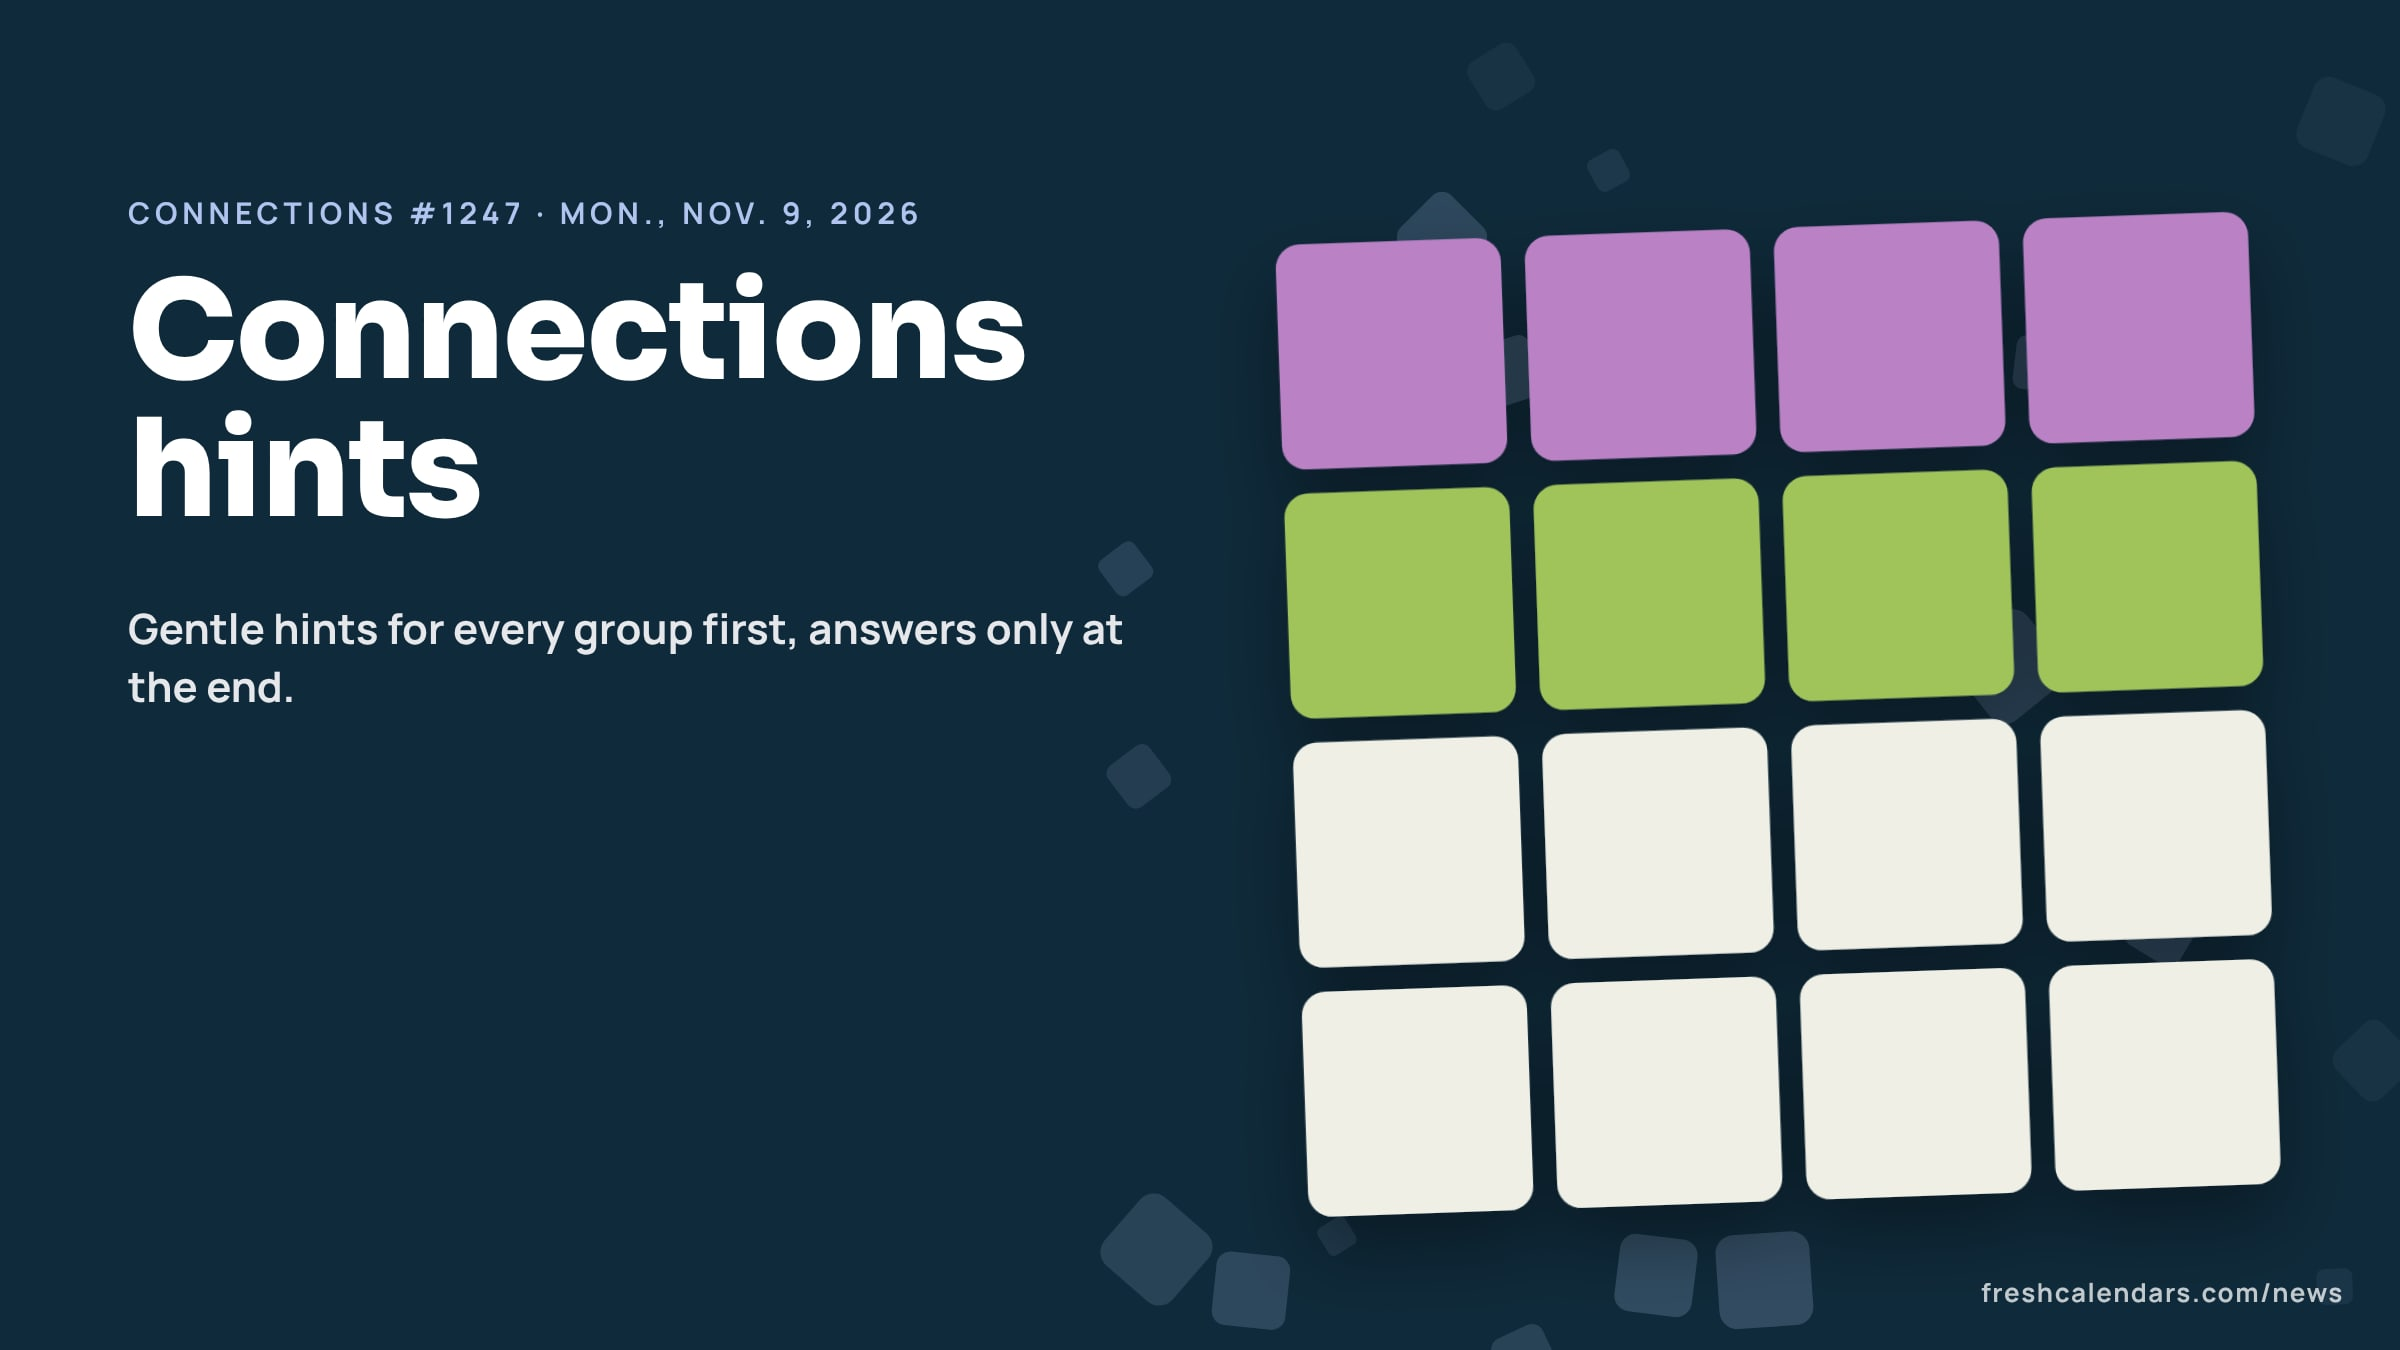
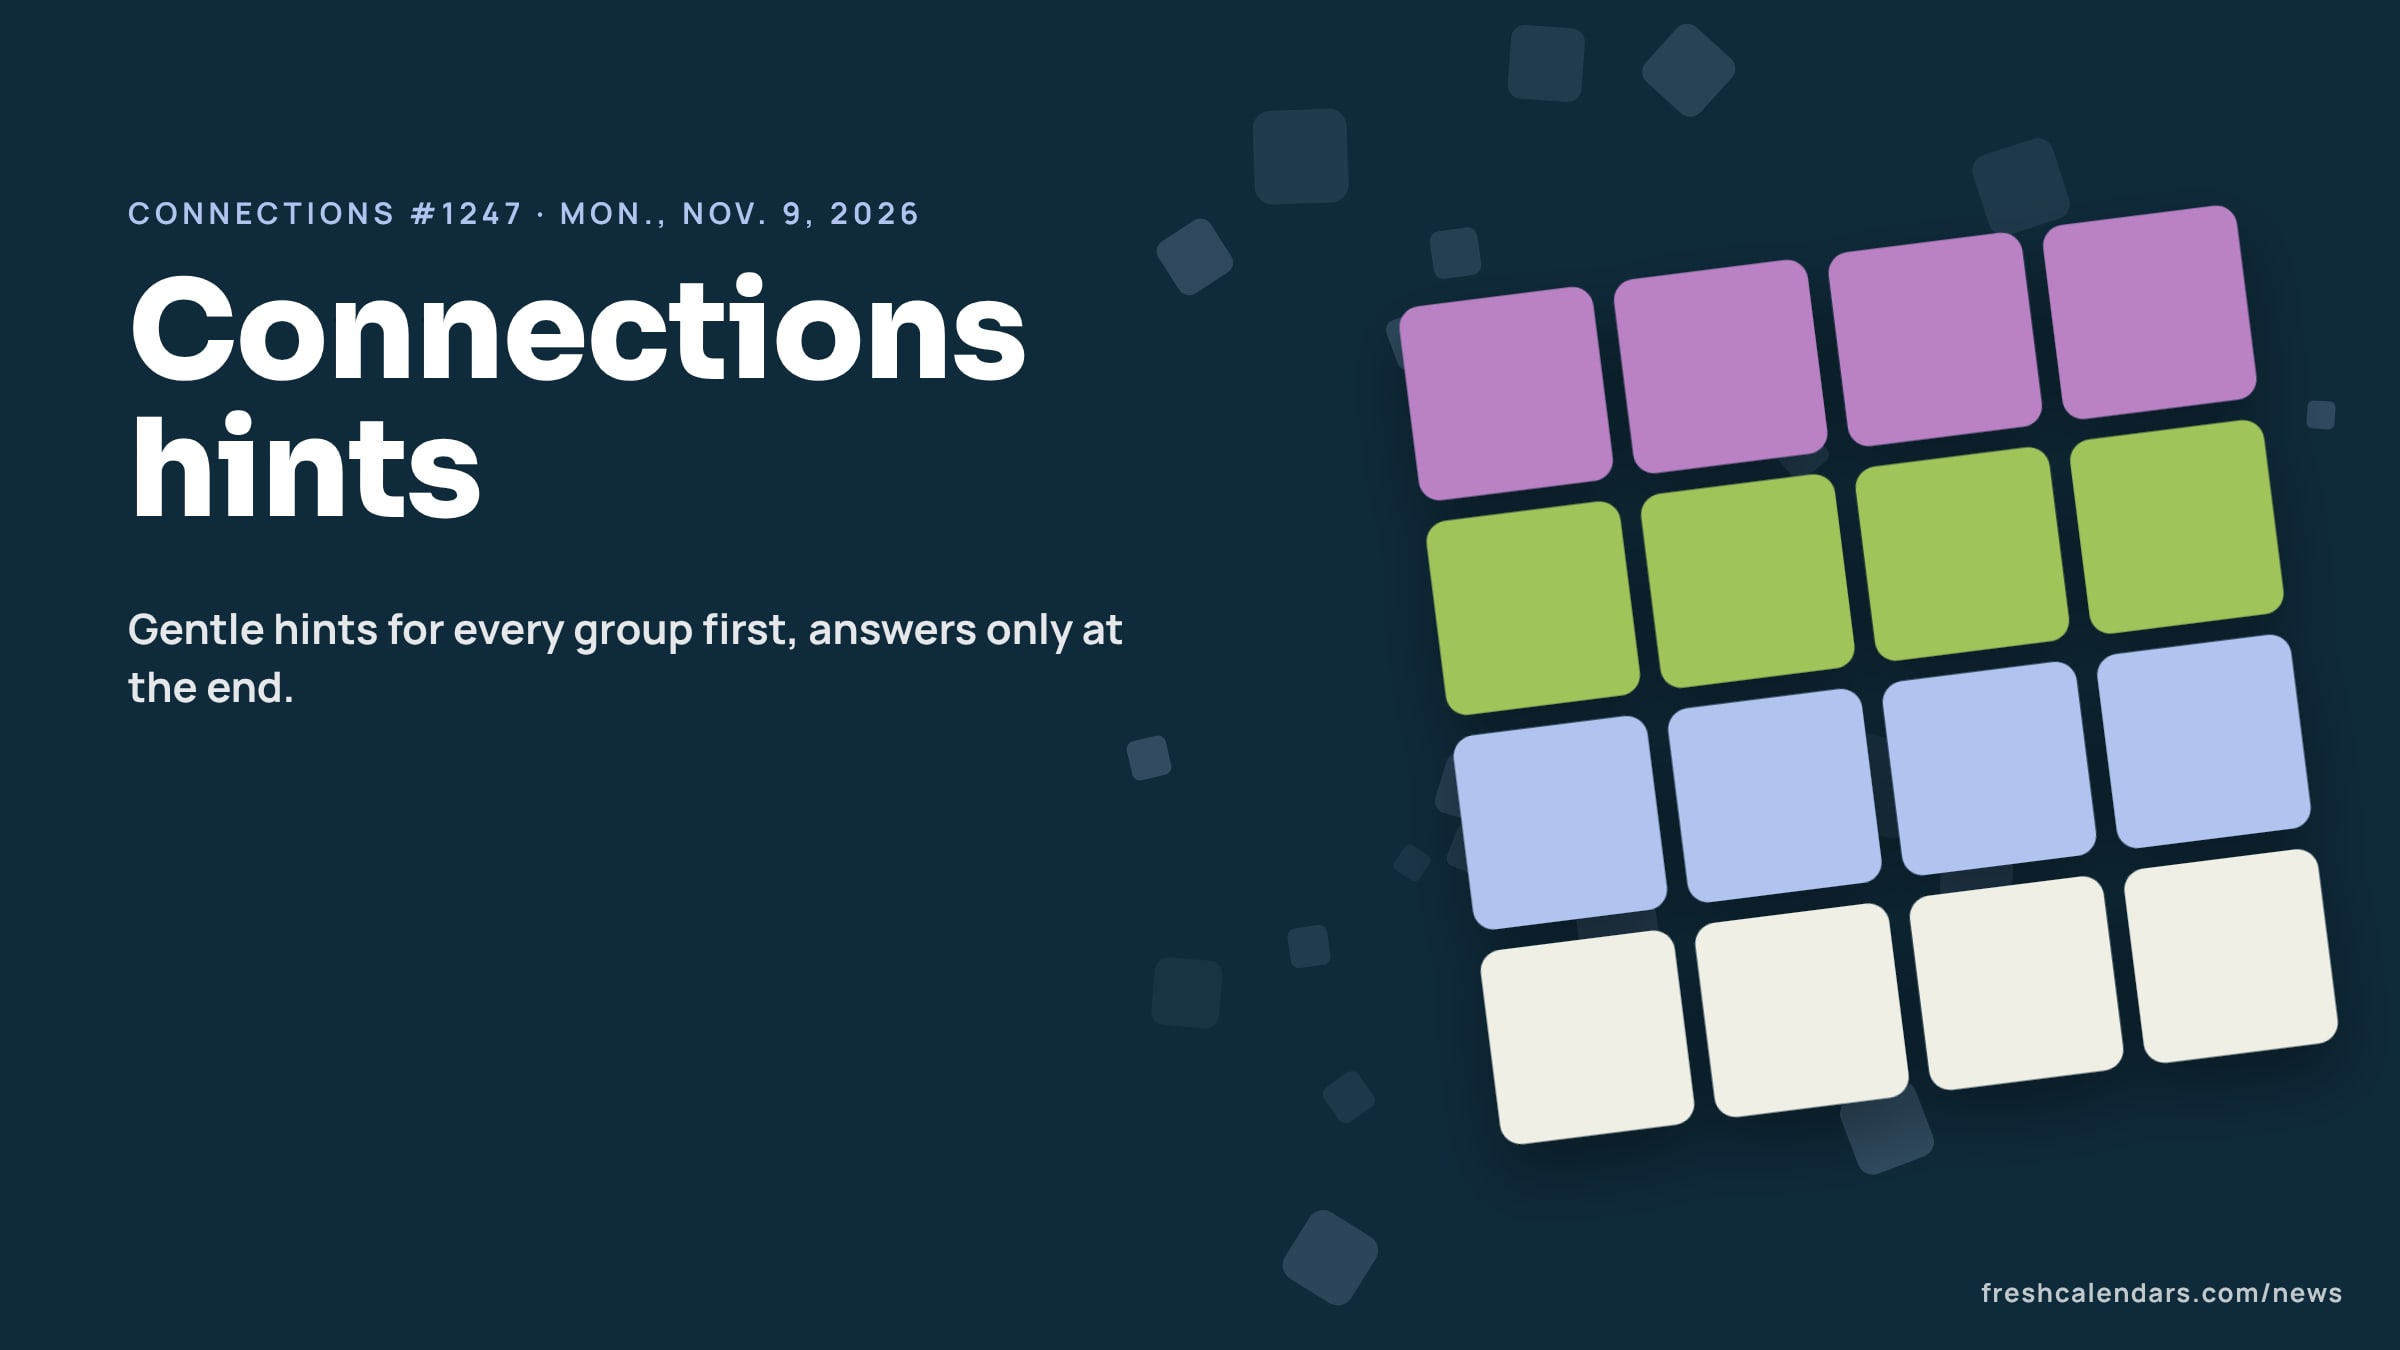
fix(news): redraw Nov. 9 Connections hero (12-HERO-UNIQUE)
The recolor in 469a4e3 kept the same layout, and the hero hash ignores
color (38/256 bits from Nov. 3, limit 40). heroes5 rows take an optional
layout seed; Nov. 9 now sits 70 bits from its nearest hero. Checked with
duplicateHeroes() over every story, scheduled ones included: no pairs.

Claude-Session: https://claude.ai/code/session_017cthDpSDVJ9JsBZNTUoZXD

diff --git a/packages/generator/src/heroes5.ts b/packages/generator/src/heroes5.ts
@@ -122,8 +122,11 @@ const ART: Record<string, (r: Rng) => string> = {
   waffle: (r) => grid(700, 95, 5, 5, 88, 10, (row, c) => (row % 2 && c % 2 ? "none" : pick(r, [G, G, G, Y, Y, "#e5e7eb"])), 12),
 };
 
-/** [slug, game art key, bg, accent, kicker, title, dek]: filled in per day. */
-export const PUZZLE_HEROES: [string, string, string, string, string, string, string][] = [
+/**
+ * [slug, game art key, bg, accent, kicker, title, dek, seed?]: filled in per day. The optional seed
+ * replaces the slug as the layout seed when two days of one game come out as the same picture.
+ */
+export const PUZZLE_HEROES: [string, string, string, string, string, string, string, string?][] = [
   ["wordle-hint-answer-today-october-25-2026-1954", "wordle", "#121213", "#c9b458", "Wordle #1954 · Sun., Oct. 25, 2026", "Wordle hints today", "Six clues from gentle to strong, the answer only at the end."],
   ["nyt-connections-hints-answers-october-25-2026-1232", "connections", "#1e1a3a", "#f9df6d", "Connections #1232 · Sun., Oct. 25, 2026", "Connections hints", "Gentle hints for every group first, answers only at the end."],
   ["nyt-strands-hints-answers-october-25-2026-966", "strands", "#0f2f3a", "#aedfee", "Strands #966 · Sun., Oct. 25, 2026", "Strands hints today", "Spangram and theme-word hints first, answers at the end."],
@@ -232,7 +235,7 @@ export const PUZZLE_HEROES: [string, string, string, string, string, string, str
   ["nyt-pips-hints-answers-november-8-2026", "pips", "#1e293b", "#fde68a", "Pips · Sun., Nov. 8, 2026", "Pips hints today", "Hints for Easy, Medium and Hard, placements at the end."],
   ["nyt-spelling-bee-hints-answers-november-8-2026", "bee", "#1c1917", "#f7da21", "Spelling Bee · Sun., Nov. 8, 2026", "Spelling Bee hints", "Hint grid and two-letter list first, the word list at the end."],
   ["wordle-hint-answer-today-november-9-2026-1969", "wordle", "#121213", "#c9b458", "Wordle #1969 · Mon., Nov. 9, 2026", "Wordle hints today", "Six clues from gentle to strong, the answer only at the end."],
-  ["nyt-connections-hints-answers-november-9-2026-1247", "connections", "#0f2a3a", "#b0c4ef", "Connections #1247 · Mon., Nov. 9, 2026", "Connections hints", "Gentle hints for every group first, answers only at the end."],
+  ["nyt-connections-hints-answers-november-9-2026-1247", "connections", "#0f2a3a", "#b0c4ef", "Connections #1247 · Mon., Nov. 9, 2026", "Connections hints", "Gentle hints for every group first, answers only at the end.", "nyt-connections-november-9-b"],
   ["nyt-strands-hints-answers-november-9-2026-981", "strands", "#0f2f3a", "#aedfee", "Strands #981 · Mon., Nov. 9, 2026", "Strands hints today", "Spangram and theme-word hints first, answers at the end."],
   ["nyt-pips-hints-answers-november-9-2026", "pips", "#1e293b", "#f9a8d4", "Pips · Mon., Nov. 9, 2026", "Pips hints today", "Hints for Easy, Medium and Hard, placements at the end."],
 ];
@@ -241,10 +244,10 @@ export async function buildHeroes5(only?: string): Promise<void> {
   const fonts = await fontFaces();
   const browser = await chromium.launch({ headless: true });
   try {
-    for (const [slug, art, bg, accent, kicker, title, dek] of PUZZLE_HEROES) {
+    for (const [slug, art, bg, accent, kicker, title, dek, seed = slug] of PUZZLE_HEROES) {
       if (only && !slug.includes(only)) continue;
       const page = await browser.newPage({ viewport: { width: W, height: H }, deviceScaleFactor: 2 });
-      await page.setContent(hero(fonts, { bg, accent, kicker, title, dek, art: ART[art]!(rng(slug)), seed: slug }), { waitUntil: "load" });
+      await page.setContent(hero(fonts, { bg, accent, kicker, title, dek, art: ART[art]!(rng(seed)), seed }), { waitUntil: "load" });
       await page.evaluate(() => document.fonts.ready);
       const png = await page.screenshot({ type: "png" });
       await page.close();
